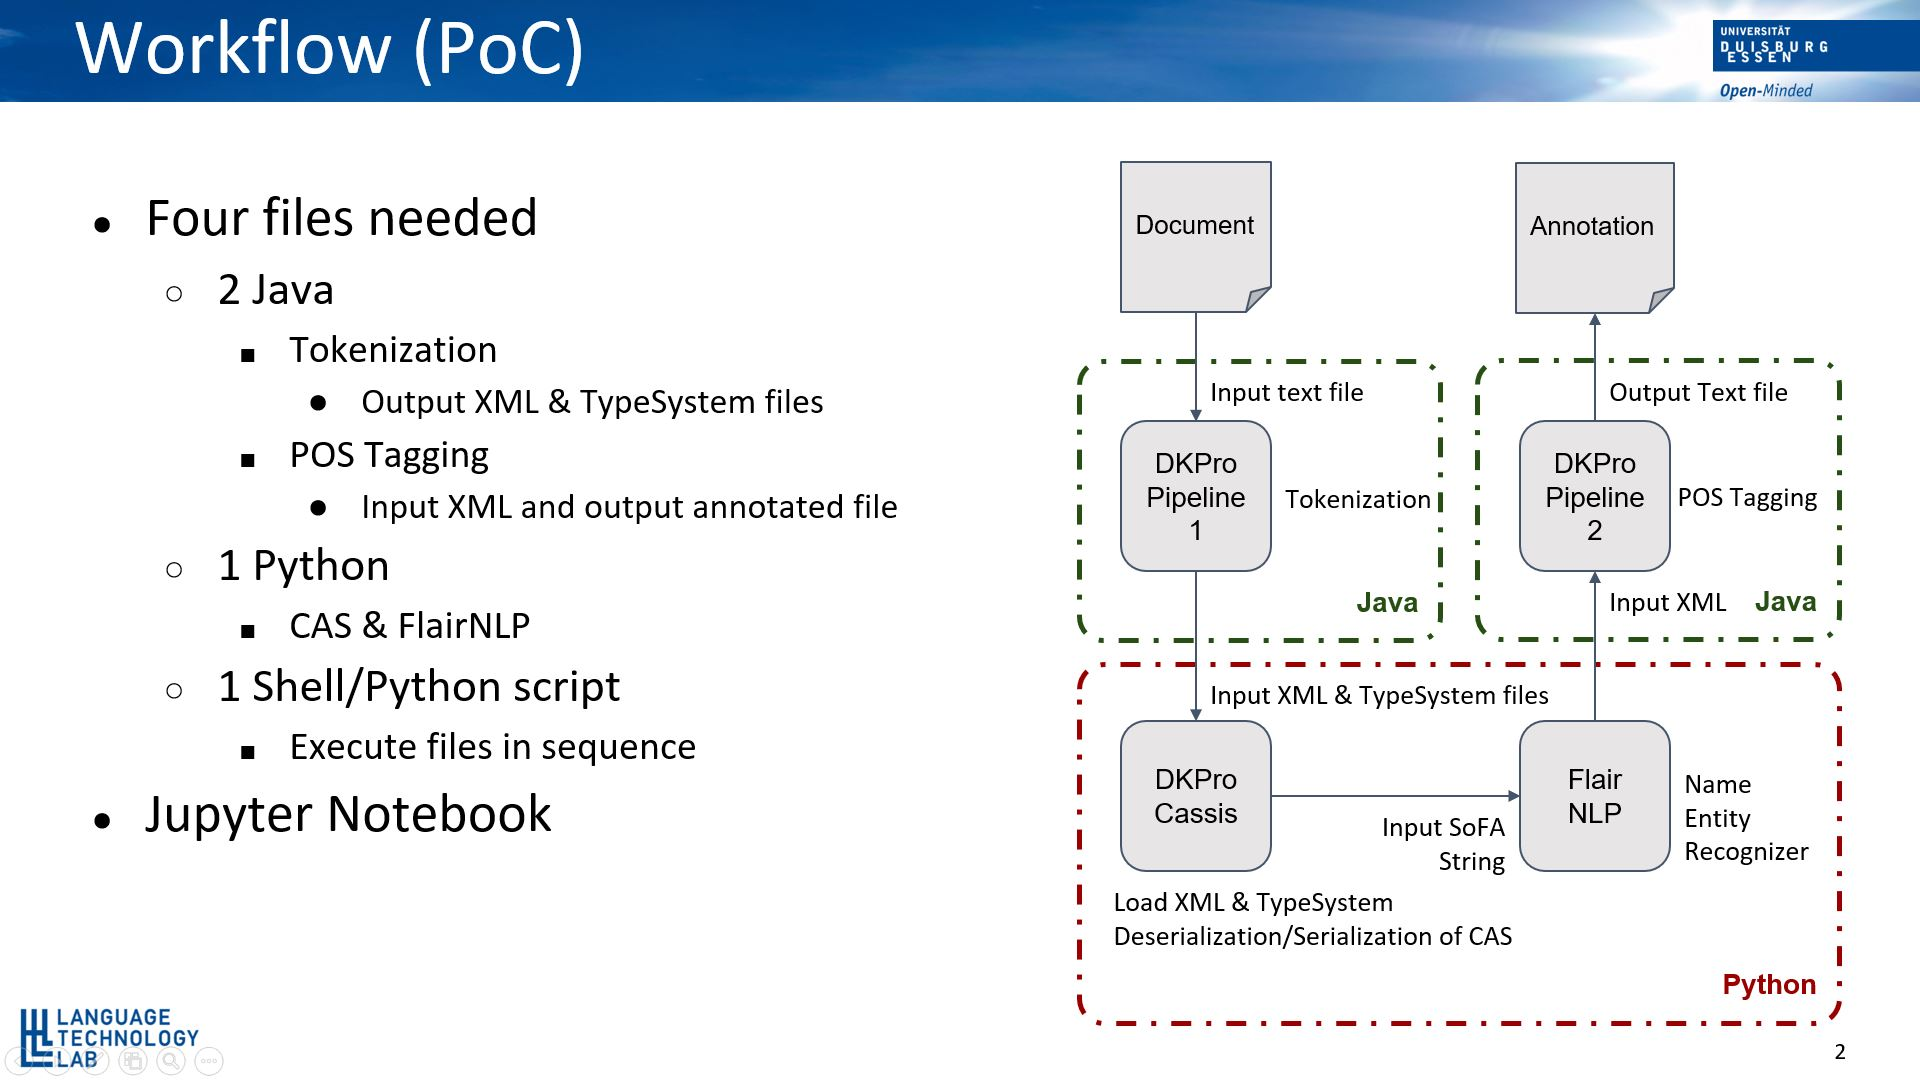
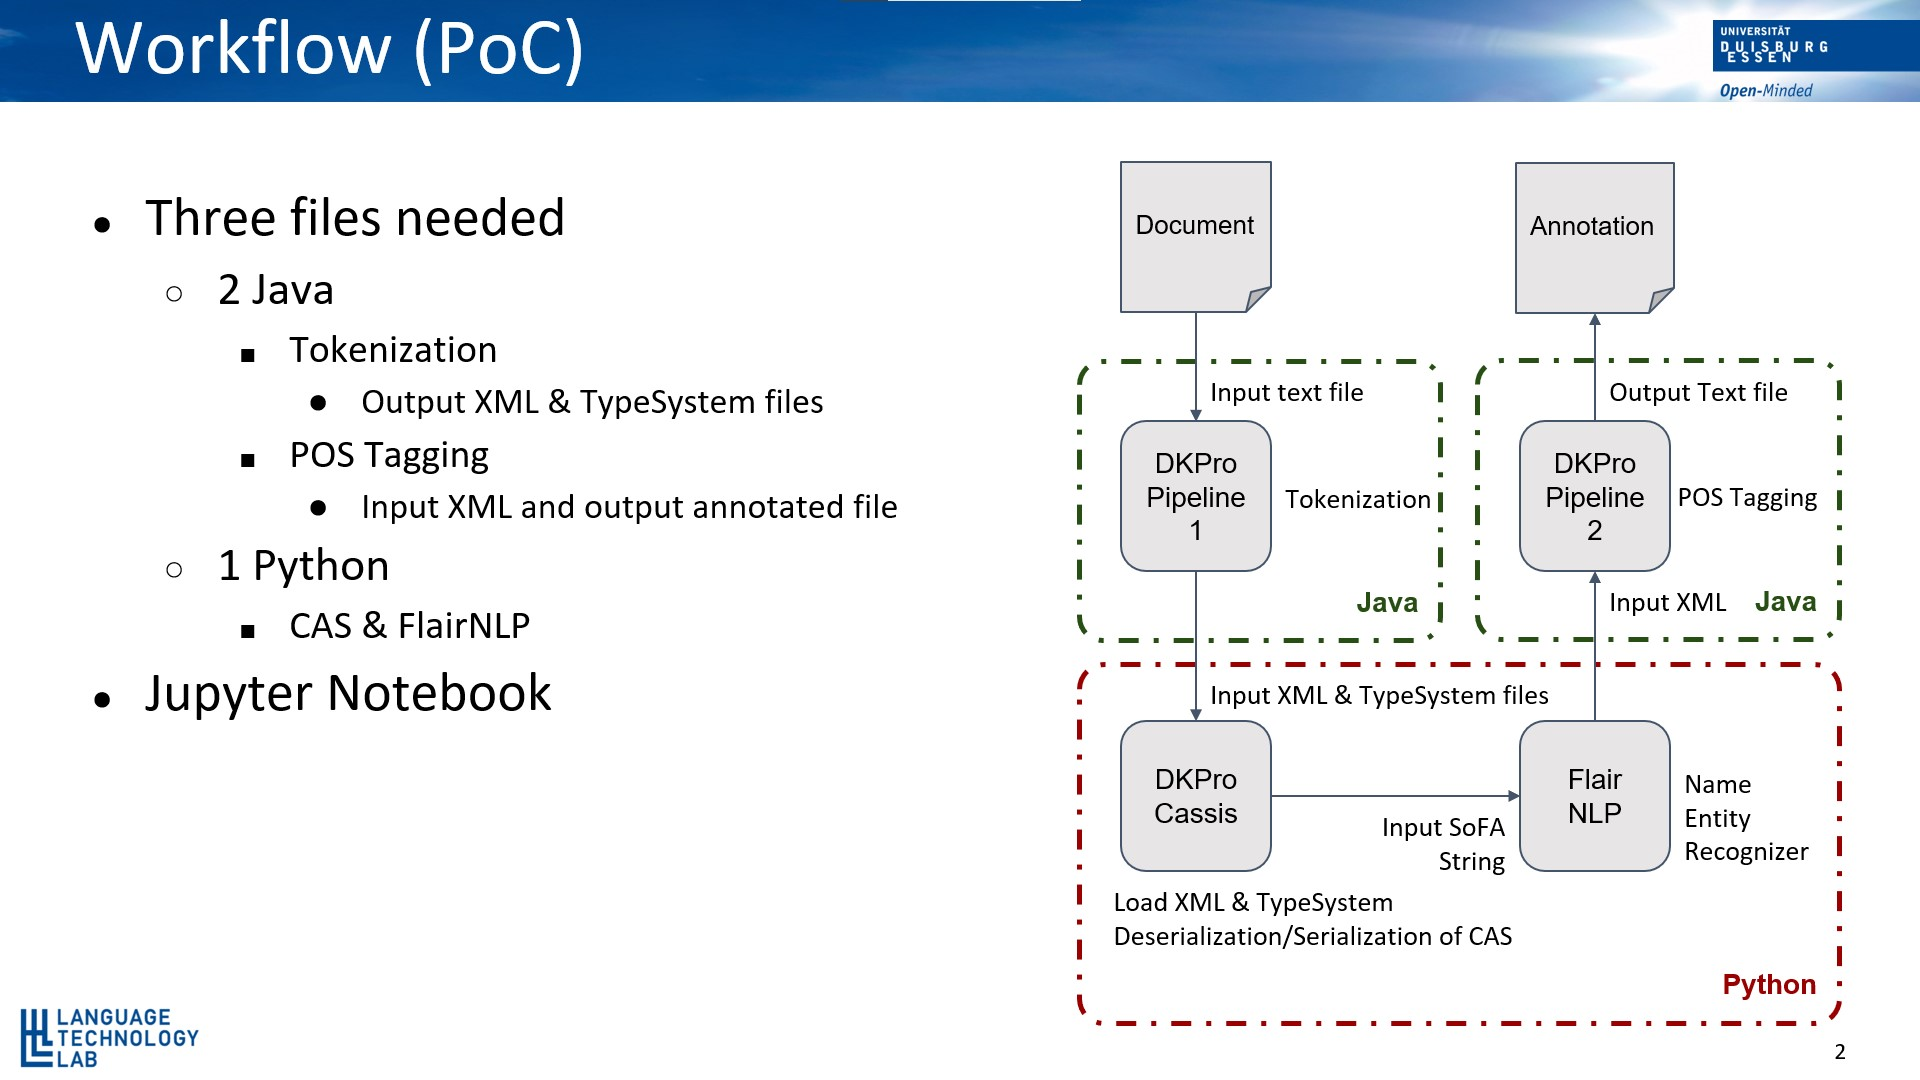
Update README.md

diff --git a/doc/USAGE.md b/doc/USAGE.md
@@ -1,0 +1,141 @@
+# Detail Workflow and Usage
+
+## Introduction
+
+Figure 1 shows the workflow of the Proof of Concept for the integration of FlairNLP NER-tagger to the DKPro-Core.
+
+The steps of the workflow is as follows:
+- DKPro Core is used to tokenize the document e.g. using [OpenNLPSegmenter](https://dkpro.github.io/dkpro-core/releases/1.9.0/docs/component-reference.html#engine-OpenNlpSegmenter) and create the CAS objects and TypeSystem
+- The CAS object and the TypeSystem files are loaded by DKPro-Cassis
+- SoFA string is extracted as input and annotated by the FlairNLP
+- The NER annotations were mapped according to the [DKPro Named Entity Recognizer](https://dkpro.github.io/dkpro-core/releases/1.9.0/docs/component-reference.html#_named_entity_recognizer) annotations
+- The new CAS annotation is added, which the DKPro can read back to annotate further
+- The new CAS object is passed to the next DKPro Core component
+
+![PoCWorkflow](screenshots/pocSlide.jpg)
+
+<p style="text-align: center;">Figure 1. Workflow of Proof of Concept</p>
+
+## Workflow in detail
+
+Step 1:
+
+> A document file with multiple line text is created, which will be passed to the first pipeline. An example of the document file can be found in the 
+```data/document.txt```
+
+Step 2:
+
+> The first pipeline consist of the DKPro-Core tokenizer. The bottom code snippet is from the DKPro-Core, which uses the OpenNLPSegmenter to create the CAS Object and the TypeSystem.
+
+DKPro Pipeline 1
+```
+public class Pipeline {
+
+    public static void main(String[] args) throws Exception {
+    
+        String text_doc = "document.txt";;
+            
+        runPipeline(
+            // Read the document.txt file
+            createReaderDescription(TextReader.class,
+                TextReader.PARAM_SOURCE_LOCATION, text_doc,
+                TextReader.PARAM_LANGUAGE, "en"),
+            
+            // Initiate the OpenNLPSegmenter from DKPro-Core
+            createEngineDescription(OpenNlpSegmenter.class),
+
+            // Create the Cas object and typesystem files        
+            createEngineDescription(XmiWriter.class,
+                XmiWriter.PARAM_TARGET_LOCATION, "OpenNlpSegmenter.xmi",
+                XmiWriter.PARAM_TYPE_SYSTEM_FILE, "TypeSystem_xml")
+    }
+}
+```
+Step 3:
+
+Here it shows how the FlairNLP is used to annotate the CAS object generated from the DKPro Pipeline 1
+
+> Open the notebook from the ```Example``` folder by typing the following commands
+```
+    cd \Example
+    jupyter notebook
+```
+
+> Copy the generated files (CAS Object and TypeSystem files) and paste them into the ```data``` folder. Insert the name of those files under the following code snippet shown below as an example.
+
+```
+typeSystemFile = './data/TypeSystem.xml'
+casFile = './data/output_OpenNlpSegmenter.xmi'
+
+segmenter = "de.tudarmstadt.ukp.dkpro.core.api.segmentation.type.Token"
+
+# Load Typesystem
+with open(typeSystemFile, 'rb') as f:
+    typesystem = load_typesystem(f)
+
+# Load Cas
+with open(casFile, 'rb') as f:
+    cas = load_cas_from_xmi(f, typesystem=typesystem)
+```
+
+> The text in the document can be checked by typing the following command
+```
+text = cas.sofa_string
+print(text)
+```
+
+> The Flair NLP is used to predict the NER-Tags on the text
+```
+model_name = 'ner'
+text = Sentence(text)
+nlp = SequenceTagger.load(model_name)
+nlp.predict(text)
+```
+> Then the FlairNLP Pipeline is instantiated by the following code snippet
+```
+NERType = cas.typesystem.get_type("de.tudarmstadt.ukp.dkpro.core.api.ner.type.NamedEntity")
+
+for span in text.get_spans('ner'):
+    if span.tag == 'PER':
+        val = 'person'
+    if span.tag == 'LOC':
+        val = 'location'
+    if span.tag == 'ORG':
+        val = "organization"
+    if span.tag == 'MISC':
+        val = "miscellaneous"
+    ner_annotation = NERType(begin=span.start_pos,
+                             end=span.end_pos,
+                             value=val)
+    cas.add_annotation(ner_annotation)
+```
+
+Step 4:
+
+> The annotated CAS is written into an xmi file
+```
+cas.to_xmi('./data/output_FlairNER.xmi', pretty_print=True)
+```
+Step 5:
+> The CAS object is passed to the second DKPro-Core Pipeline. The second pipeline consists of the Parts-of-Speech Tagger from Java based DKPro-Core OpenNlpPosTagger.
+
+DKPro Pipeline 2
+```
+public class Pipeline {
+
+    public static void main(String[] args) throws Exception {
+
+        String in_xmi = "flairNLP.xmi";
+
+        runPipeline(
+            createReaderDescription(XmiReader.class,
+                XmiReader.PARAM_SOURCE_LOCATION, in_xmi,
+                XmiReader.PARAM_LANGUAGE, "en"),
+            
+            createEngineDescription(OpenNlpPosTagger.class),
+            
+            createEngineDescription(XmiWriter.class,
+                XmiWriter.PARAM_TARGET_LOCATION, "OpenNlpPosTagger.xmi")
+    }
+}
+```

diff --git a/README.md b/README.md
@@ -1,37 +1,47 @@
-# PoC of FlairNLP Named Entity Recognition integration with DKPro
+# Proof of Concept of FlairNLP Named Entity Recognition integration with DKPro-Core
 
-DKPro Core is Java based and it integrates taggers e.g. StanfordNLP, OpenNLP etc., where as the Flair is Python based state-of-the-art NLP model. This PoC shows the process of connecting the Java based DKPro Core and Python based Flair together using a middleware DKPro-Cassis.
+DKPro Core is Java based and it integrates taggers e.g. StanfordNLP, OpenNLP etc., where as the Flair is Python based state-of-the-art NLP model. This PoC shows the process of connecting the Java based DKPro Core and Python based Flair together using a middleware DKPro-Cassis. Below are the short descriptions of the technologies that have been used to complete the Proof of Concept.
 
 [DKPro Core](https://dkpro.github.io/dkpro-core/info/):
 
 > DKPro Core addresses tasks that are commonly referred to as linguistic pre-processing, e.g. part-of-speech taggers, parsers, etc. Within DKPro Core, a steadily growing set of third-party tools for such tasks have been wrapped into interoperable and interchangeable components for the Apache UIMA framework.
 
-[Flair](https://github.com/flairNLP/flair):
+[FlairNLP](https://github.com/flairNLP/flair):
 
 > Flair is a powerful NLP library. Flair allows you to apply our state-of-the-art natural language processing (NLP) models to your text, such as named entity recognition (NER), part-of-speech tagging (PoS), sense disambiguation and classification.
 
 [DKPro-Cassis](https://github.com/dkpro/dkpro-cassis):
 > DKPro-Cassis is a pure-Python implementation of the Common Analysis System (CAS) as defined by the UIMA framework. The CAS is a data structure representing an object to be enriched with annotations (the so-called Subject of Analysis, short SofA).
 
-![POCWorkflow](doc/pocSlide.jpg)
+## Demo version
+
+An example of the use case can be found under ``Example/dkpro_flairnlp_ner_poc.ipynb``
+
+## System requirements
+
+- Python >= 3.6
+
+## Installation Guide
+
+A complete installation guide for both Windows and Linux users can be found [here](doc/INSTALL.md).
+    
+## Features
+
+- Using DKPro Cassis to annotate Flair NLP NER-tags
+- Re-useable CAS object for further annotations in Java based DKPro-Core
+
+## Workflow and Usage
+
+![PoCWorkflow](doc/screenshots/workflow.jpg)
 
 In order to complete this PoC, three files were needed:
 - 2 Java files
-    - Tokenizer
-        - Outputs XMI and TypeSystem files
-    - POS-Tagger
-        - Takes Flair XMI file as input
-        - Outputs annotated XMI file
-- 1 Python file
-    - Takes CAS object as input
-    - Executes Flair NER
-    - Annotates the CAS object with NER-Tags
+    - Tokenizer (it outputs XMI and TypeSystem files)
+    - POS-Tagger (it takes Flair XMI file as input and outputs annotated XMI file)
+- 1 Jupyter Notebook file (it takes CAS object as input, executes Flair NER and annotates the CAS object with NER-tags)
 
-The right side of the above slide is the workflow of the PoC. The steps of the workflow is as follows:
-- DKPro Core is used to tokenize the document e.g. using [OpenNLPSegmenter](https://dkpro.github.io/dkpro-core/releases/1.9.0/docs/component-reference.html#engine-OpenNlpSegmenter) and create the CAS objects and TypeSystem
-- The CAS object and the TypeSystem files are loaded by DKPro-Cassis
-- SoFA string is extracted as input and annotated by the FlairNLP
-- The NER annotations were mapped according to the [DKPro Named Entity Recognizer](https://dkpro.github.io/dkpro-core/releases/1.9.0/docs/component-reference.html#_named_entity_recognizer) annotations
-- The new CAS annotation is added, which the DKPro can read back to annotate further
-- The new CAS object is passed to the next DKPro Core component
+A detailed description of the workflow and usage can be found [here](/doc/USAGE.md)
 
+## Acknowledgement
+
+- [Piush Agarwal](https://www.ltl.uni-due.de/team/piush-aggarwal)
